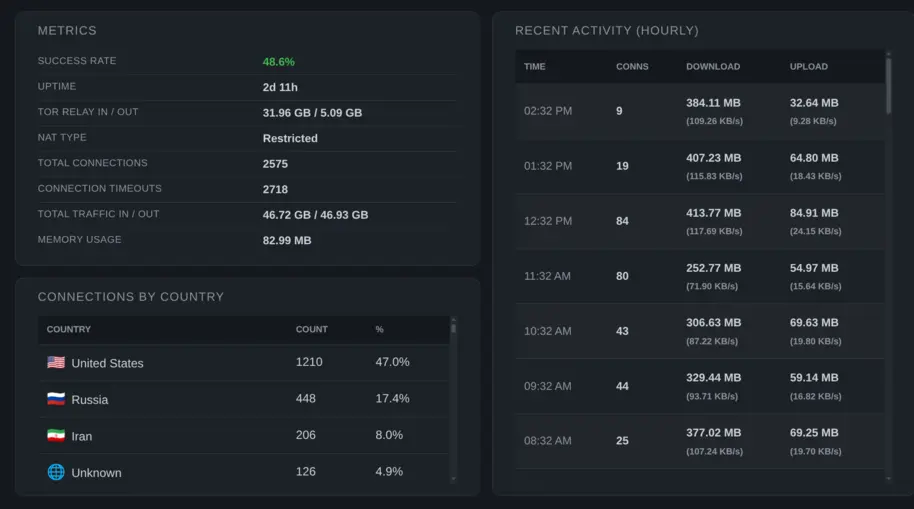
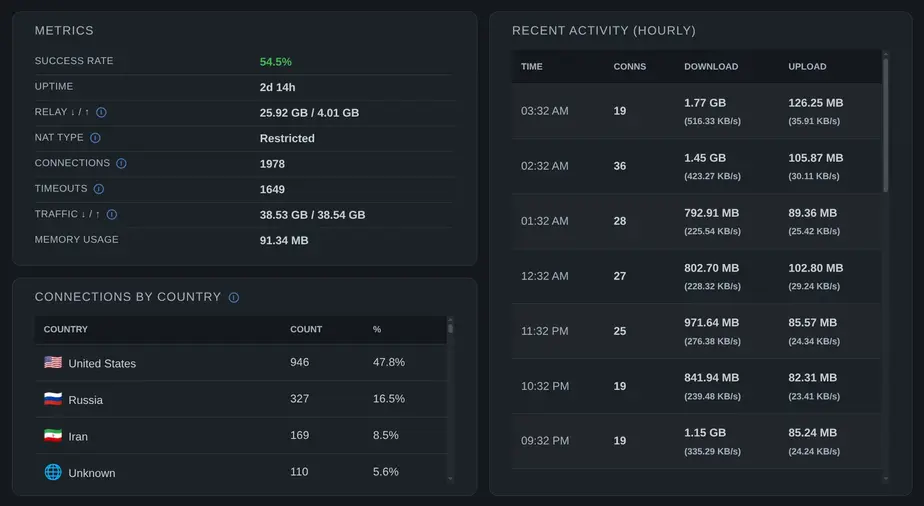
update screenshots,  minor styling updates

diff --git a/styles.css b/styles.css
@@ -3,7 +3,7 @@
 	--bg-secondary: #161b22;
 	--bg-hover: #1c2128;
 	--text-primary: #c9d1d9;
-	--text-secondary: #8b949e;
+	--text-secondary: #a8b3c0;
 	--border-color: #30363d;
 	--accent-color: #58a6ff;
 	--success-color: #3fb950;
@@ -325,8 +325,8 @@ tr:last-child td {
 	}
 
 	.label {
-		font-size: 0.75rem;
-		margin-bottom: 0.625rem;
+		font-size: 0.9375rem;
+		margin-bottom: 0.75rem;
 	}
 
 	.info-icon {
